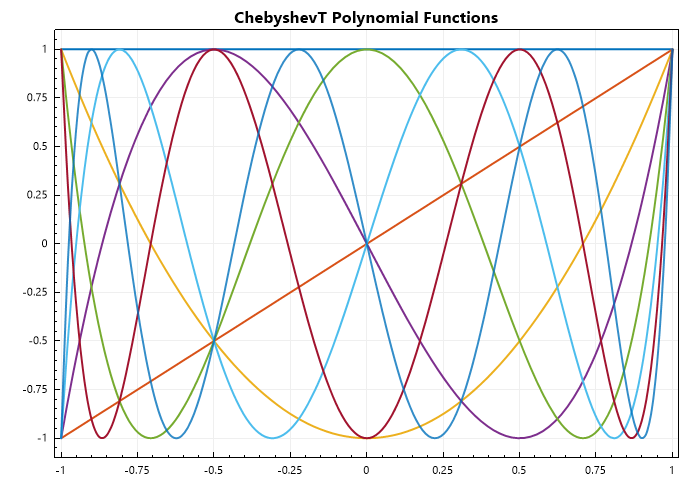
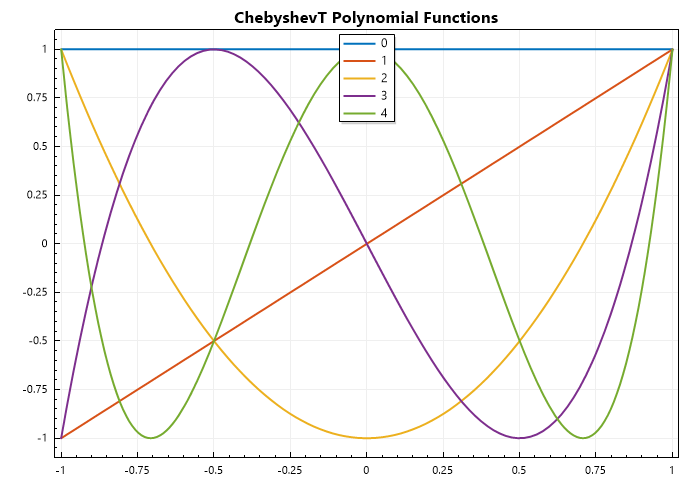
updated with legend

diff --git a/docs/source/Special_Function.rst b/docs/source/Special_Function.rst
@@ -32,6 +32,7 @@ Examples of Special Functions:
    Matrix J = Z.Select(z => BesselJ(z, x)).ToList();
    Plot(x, J, Linewidth: 2);
    Title("Bessel Functions");
+   Legend(Z.Select(z => z.ToString()), Alignment.UpperRight);
    SaveAs("BesselJ-Functions.png");
 
 Output: 
@@ -49,10 +50,11 @@ Output:
    using static CypherCrescent.MathematicsLibrary.Math;
 
    ColVec x = Linspace(-1, 1);
-   Indexer Z = new(0, 8);
+   Indexer Z = new(1, 5);
    Matrix P = Z.Select(z => Legendre(z, x)).ToList();
    Plot(x, P, Linewidth: 2);
    Title("Legendre Polynomial Functions");
+   Legend(Z.Select(z => z.ToString()), Alignment.UpperCenter);
    SaveAs("Legendre-Polynomial-Functions.png");
 
 Output: 
@@ -70,10 +72,11 @@ Output:
    using static CypherCrescent.MathematicsLibrary.Math;
 
    ColVec x = Linspace(-1, 1);
-   Indexer Z = new(0, 8);
+   Indexer Z = new(0, 5);
    Matrix T = Z.Select(z => ChebyshevT(z, x)).ToList();
    Plot(x, T, Linewidth: 2);
    Title("ChebyshevT Polynomial Functions");
+   Legend(Z.Select(z => z.ToString()), Alignment.UpperCenter);
    SaveAs("ChebyshevT-Polynomial-Functions.png");
 
 Output: 
